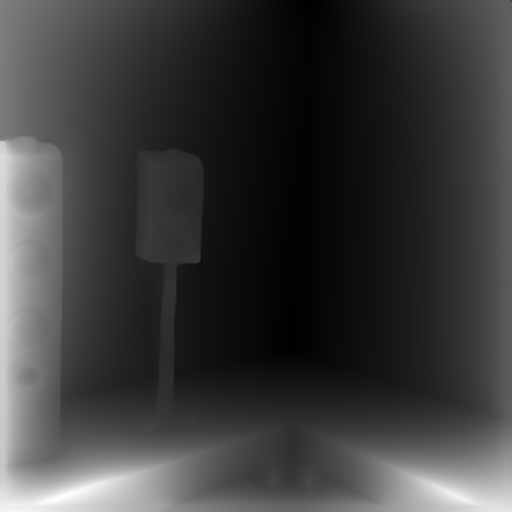
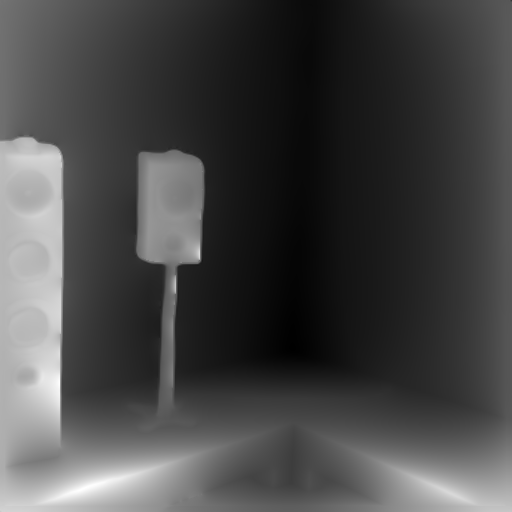
final

Changed region(s): [[0.2188, 0.2812, 0.6562, 0.9375], [0.0, 0.25, 0.2188, 1.0], [0.8438, 0.9375, 1.0, 1.0]]

diff --git a/test.m b/test.m
@@ -343,10 +343,10 @@ depth_grad_mask = (depth_grad > 0.2);
 % normal_grad_mask = normal_grad > 0.5;
 % figure, imshow(B)
 % figure, imshow(normal)
-depth_grad_mask = imdilate(depth_grad_mask, ones(3, 3));
+% depth_grad_mask = imdilate(depth_grad_mask, ones(3, 3));
 % figure, imshow(depth_grad_mask)
 
-mask = imdilate(mask, ones(3, 3));
+% mask = imdilate(mask, ones(3, 3));
 % mask = mask | depth_grad_mask;
 
 depth_grad = imgradient(depth);
@@ -380,14 +380,15 @@ mask = combined;
 % mask = mask + (1 - depth) / 10;
 % mask = mask + (normal_grad > 0.5);
 % mask = normal_grad + depth_grad;
-mask = imdilate(mask, ones(8, 8));
+% mask = imdilate(mask, ones(8, 8));
 % mask = mask ./ 5;
 mask = mask ./ max(mask(:));
 
 mask = edges + normal_grad / 5 + (edges > 0.02) / 10;
+mask = edges > 0.02;
 % mask = mask ./ max(mask(:));
 mask(mask > 1) = 1;
-mask = imdilate(mask, ones(8, 8));
+% mask = imdilate(mask, ones(8, 8));
 mask = 1 - mask;
 % mask = mask ./ 2;
 
@@ -396,6 +397,7 @@ mask(1:5, :) = 0;
 mask(end - 5:end, :) = 0;
 mask(:, 1:5) = 0;
 mask(:, end - 5:end) = 0;
+figure, imshow(mask)
 
 for i = 1:10
     % set random row to zero
@@ -437,12 +439,14 @@ fitted = x(1) * fitted + x(2);
 % figure, imshow(1 ./ (depth + 0.001))
 
 new_depth_normal = depth_to_normal(new_depth, 1);
+figure, imshow(rescale(new_depth_normal, 0, 1))
+figure, imshow(rescale(mask, 0, 1))
 % figure, imshow(rescale(new_depth_normal, 0, 1))
 
 depth_normal = depth_to_normal(depth, 1);
 % figure, imshow(rescale(depth_normal, 0, 1))
 
-cm_inferno = inferno(100);
+cm_inferno = inferno;
 % colormap(cm_inferno)
 % figure, imshow(rescale(fitted, 0, 1))
 colormap(cm_inferno);
